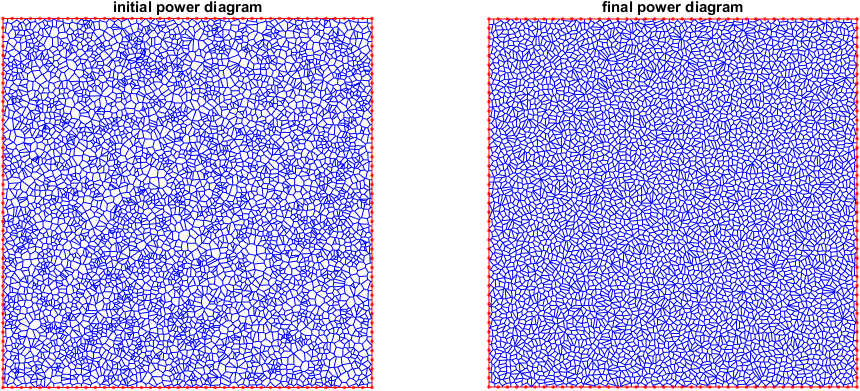
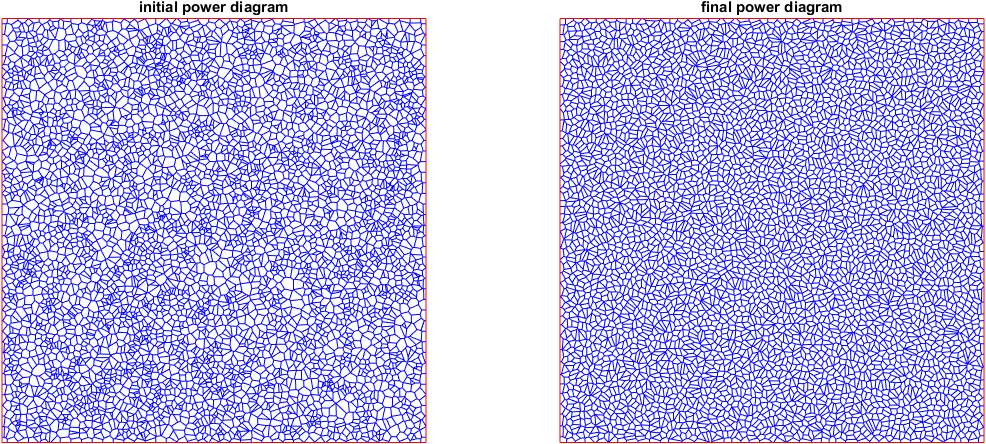
update plot of demo2

diff --git a/demo2.m b/demo2.m
@@ -30,7 +30,7 @@ sigma = @(xy) 1;
 [pd2,h] = discrete_optimal_transport(square,face,uv,sigma,area);
 
 %% plot result
-figure('Position',[549 346 1102 476],'Color',[1 1 1])
+figure('Position',[416 298 1267 524],'Color',[1 1 1])
 subplot(1,2,1)
 plot_power_diagram(pd);
 title('initial power diagram');
